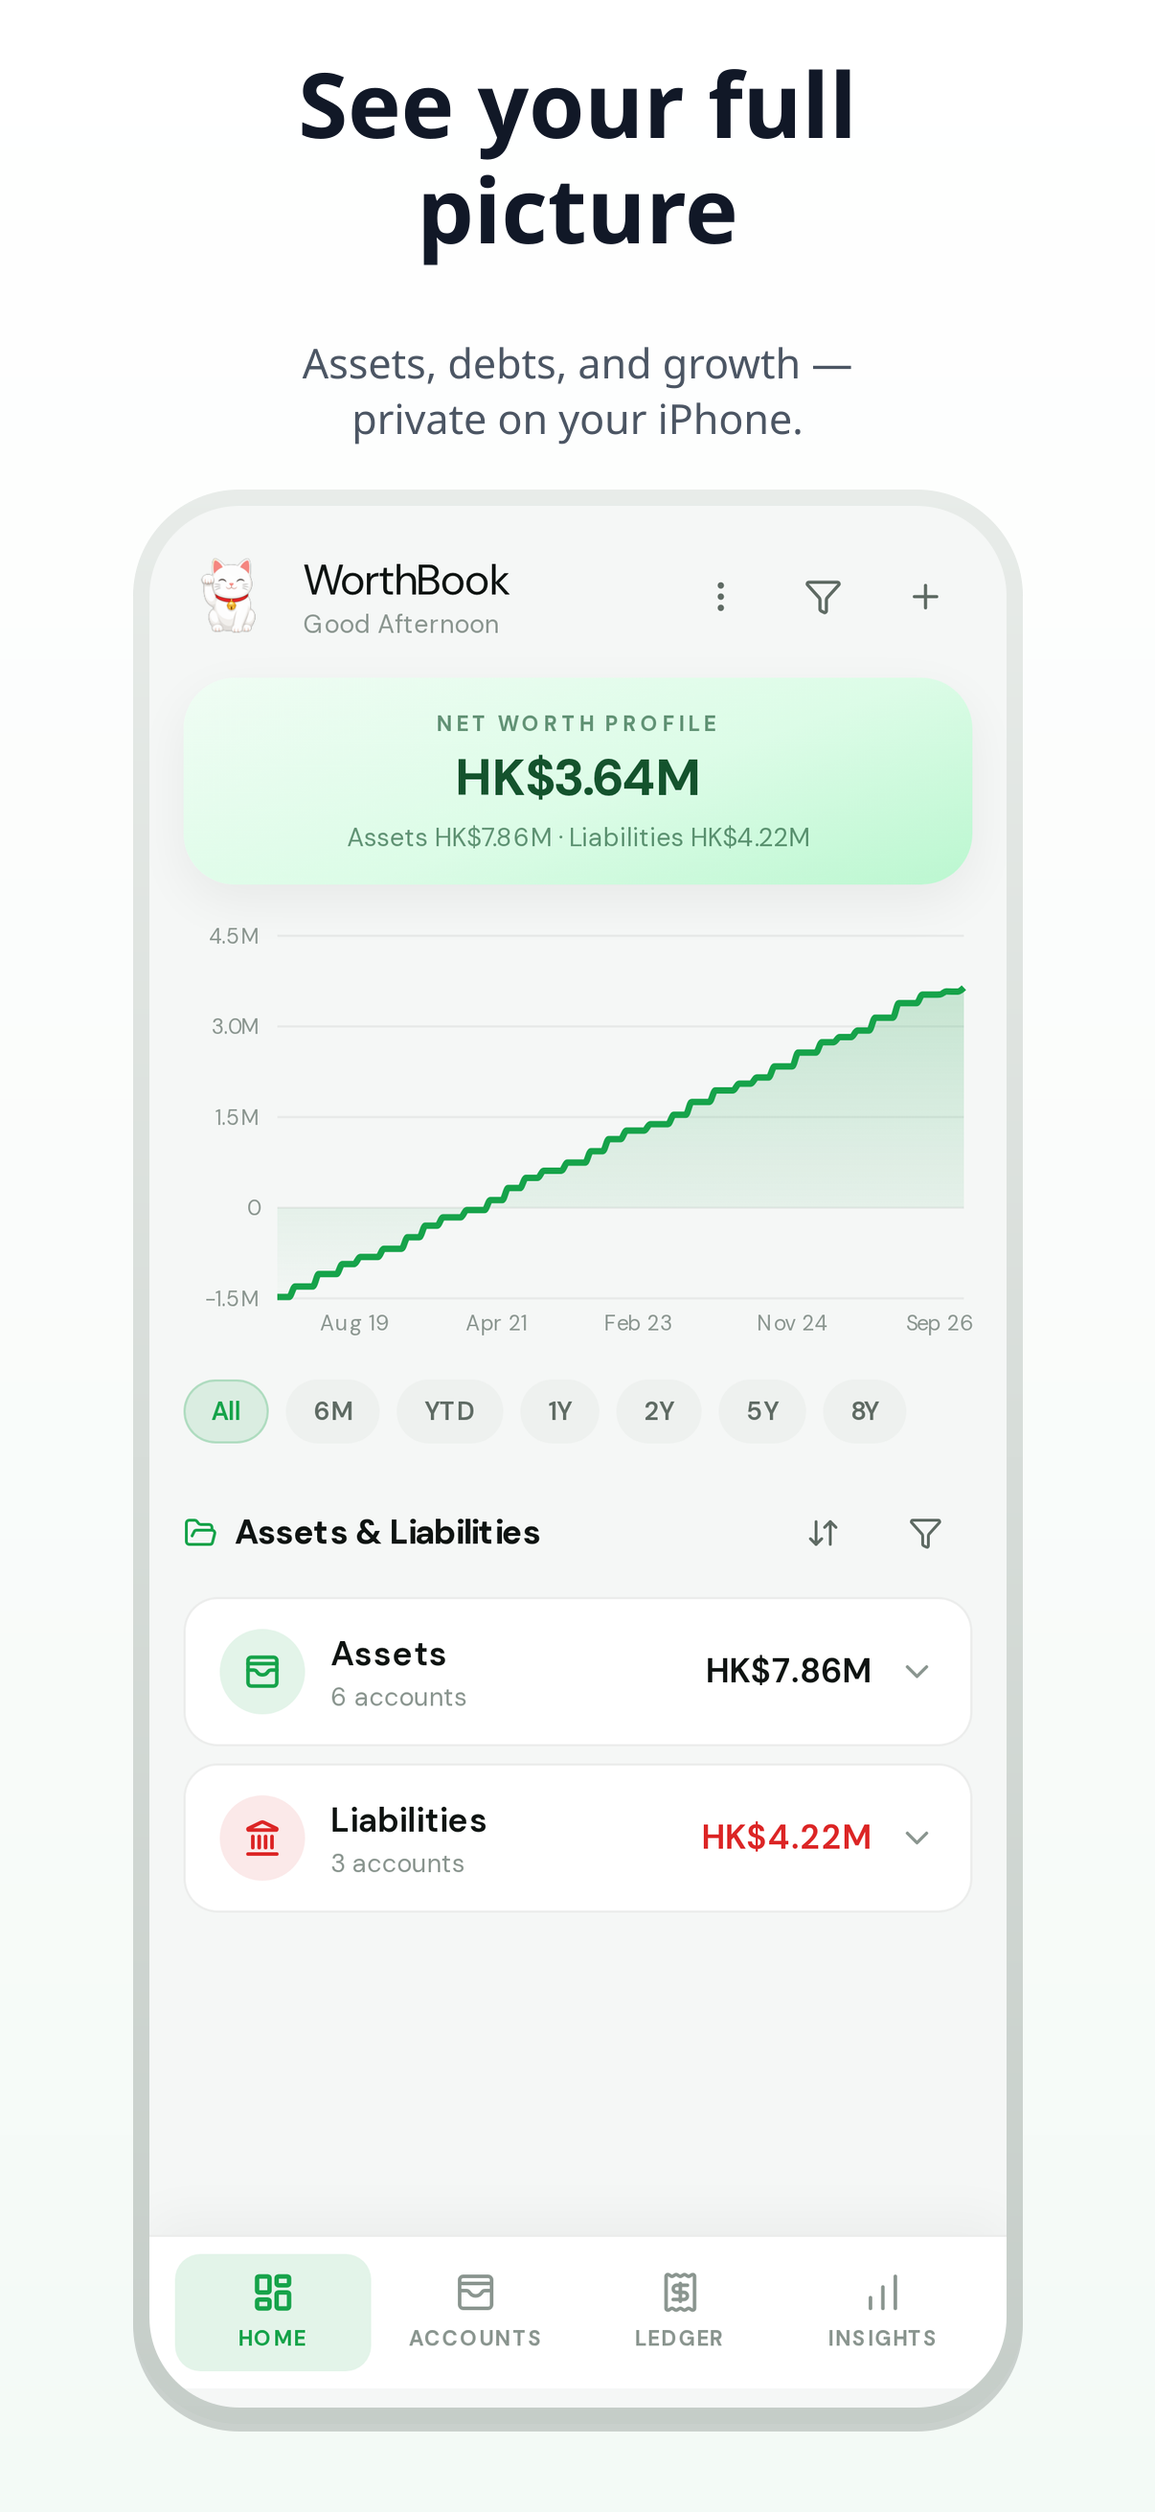
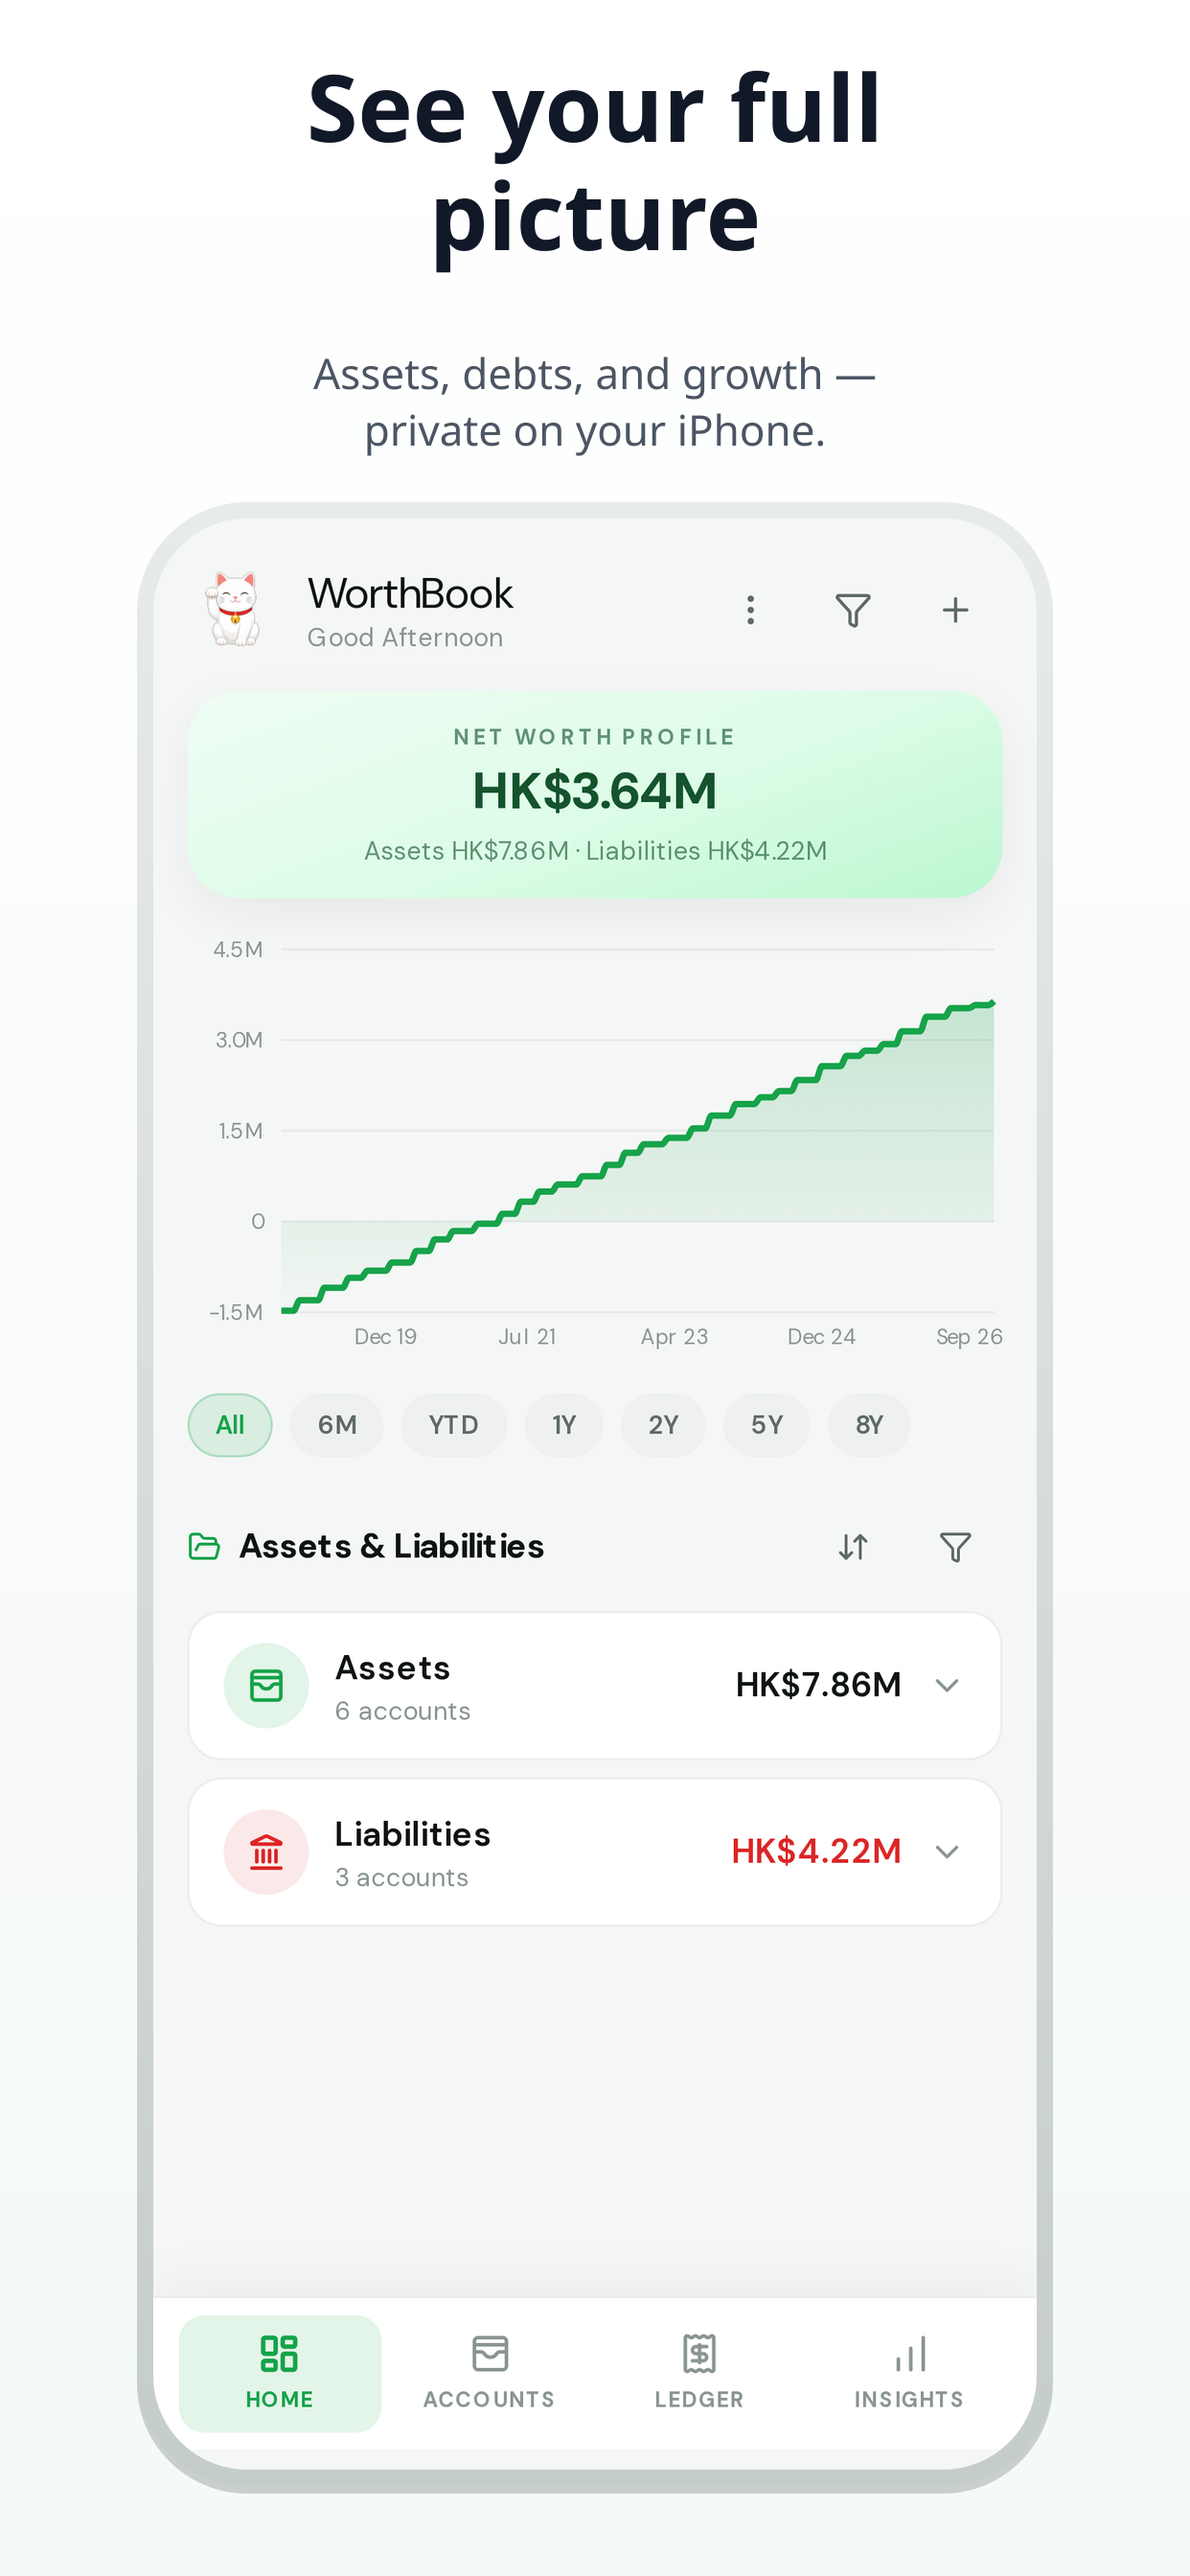
Regenerate App Store screenshots at 1242×2688
Primary 6.5" frames and raw captures now use 1242×2688
(414×896 @3x). Keep 1179×2556 for the 6.1" slot and full tab bars.

diff --git a/app-store/screenshots/README.md b/app-store/screenshots/README.md
@@ -2,24 +2,18 @@
 
 Ready-to-upload **light-mode** marketing screenshots for **App Store Connect**.
 
-> Captured in light theme. Marketing headlines stay in the top band so they never overlap the phone UI.
+> Captured in light theme. Marketing headlines stay in the top band so they never overlap the phone UI. Bottom tab bar is fully visible.
 
-## Accepted sizes (this listing slot)
+## Sizes
 
-App Store Connect for this app expects one of:
-
-| Orientation | Size |
-|-------------|------|
-| Portrait | **1206 × 2622** |
-| Landscape | 2622 × 1206 |
-| Portrait | **1179 × 2556** |
-| Landscape | 2556 × 1179 |
-
-We ship the two portrait sizes below.
+| Folder | Size | Slot |
+|--------|------|------|
+| `6.7/` | **1242 × 2688** | iPhone 6.5" Display |
+| `6.1/` | **1179 × 2556** | iPhone 6.1" Display |
 
 ## Upload these (recommended first)
 
-### 1206 × 2622 — `app-store/screenshots/6.7/`
+### 1242 × 2688 — `app-store/screenshots/6.7/`
 
 English (`6.7/en/`):
 
@@ -43,13 +37,13 @@ Same three files under `6.1/{en,zh-Hant}/`.
 
 In App Store Connect → **Previews and Screenshots**:
 
-1. Upload the three `6.7/en` images (**1206 × 2622**) into the size class that accepts that dimension.
+1. Upload the three `6.7/en` images (**1242 × 2688**) into the **6.5" Display** slot.
 2. If you localized **繁體中文**, upload `6.7/zh-Hant`.
-3. For the **1179 × 2556** class, upload `6.1/{locale}/`.
+3. For the **6.1"** class, upload `6.1/{locale}/`.
 
 ## Also included
 
-- `raw/` — unframed device captures (1206 × 2622)
+- `raw/` — unframed device captures (1242 × 2688)
 - `manifest.json` — generation metadata
 - Regenerator: `scripts/generate-app-store-screenshots.mjs`
 
@@ -57,13 +51,3 @@ In App Store Connect → **Previews and Screenshots**:
 npm run build
 npm run screenshots:app-store
 ```
-
-## Suggested listing copy (short)
-
-**Subtitle (≤30):** `Private net worth tracker` / `私密淨值與記帳`
-
-**Promotional text (EN):**  
-Track net worth, accounts, and a daily ledger — 100% on your iPhone. No account. No cloud.
-
-**推廣文字：**  
-追蹤淨值、帳戶與日常記帳——資料只留在你的 iPhone。無需註冊、無雲端。
